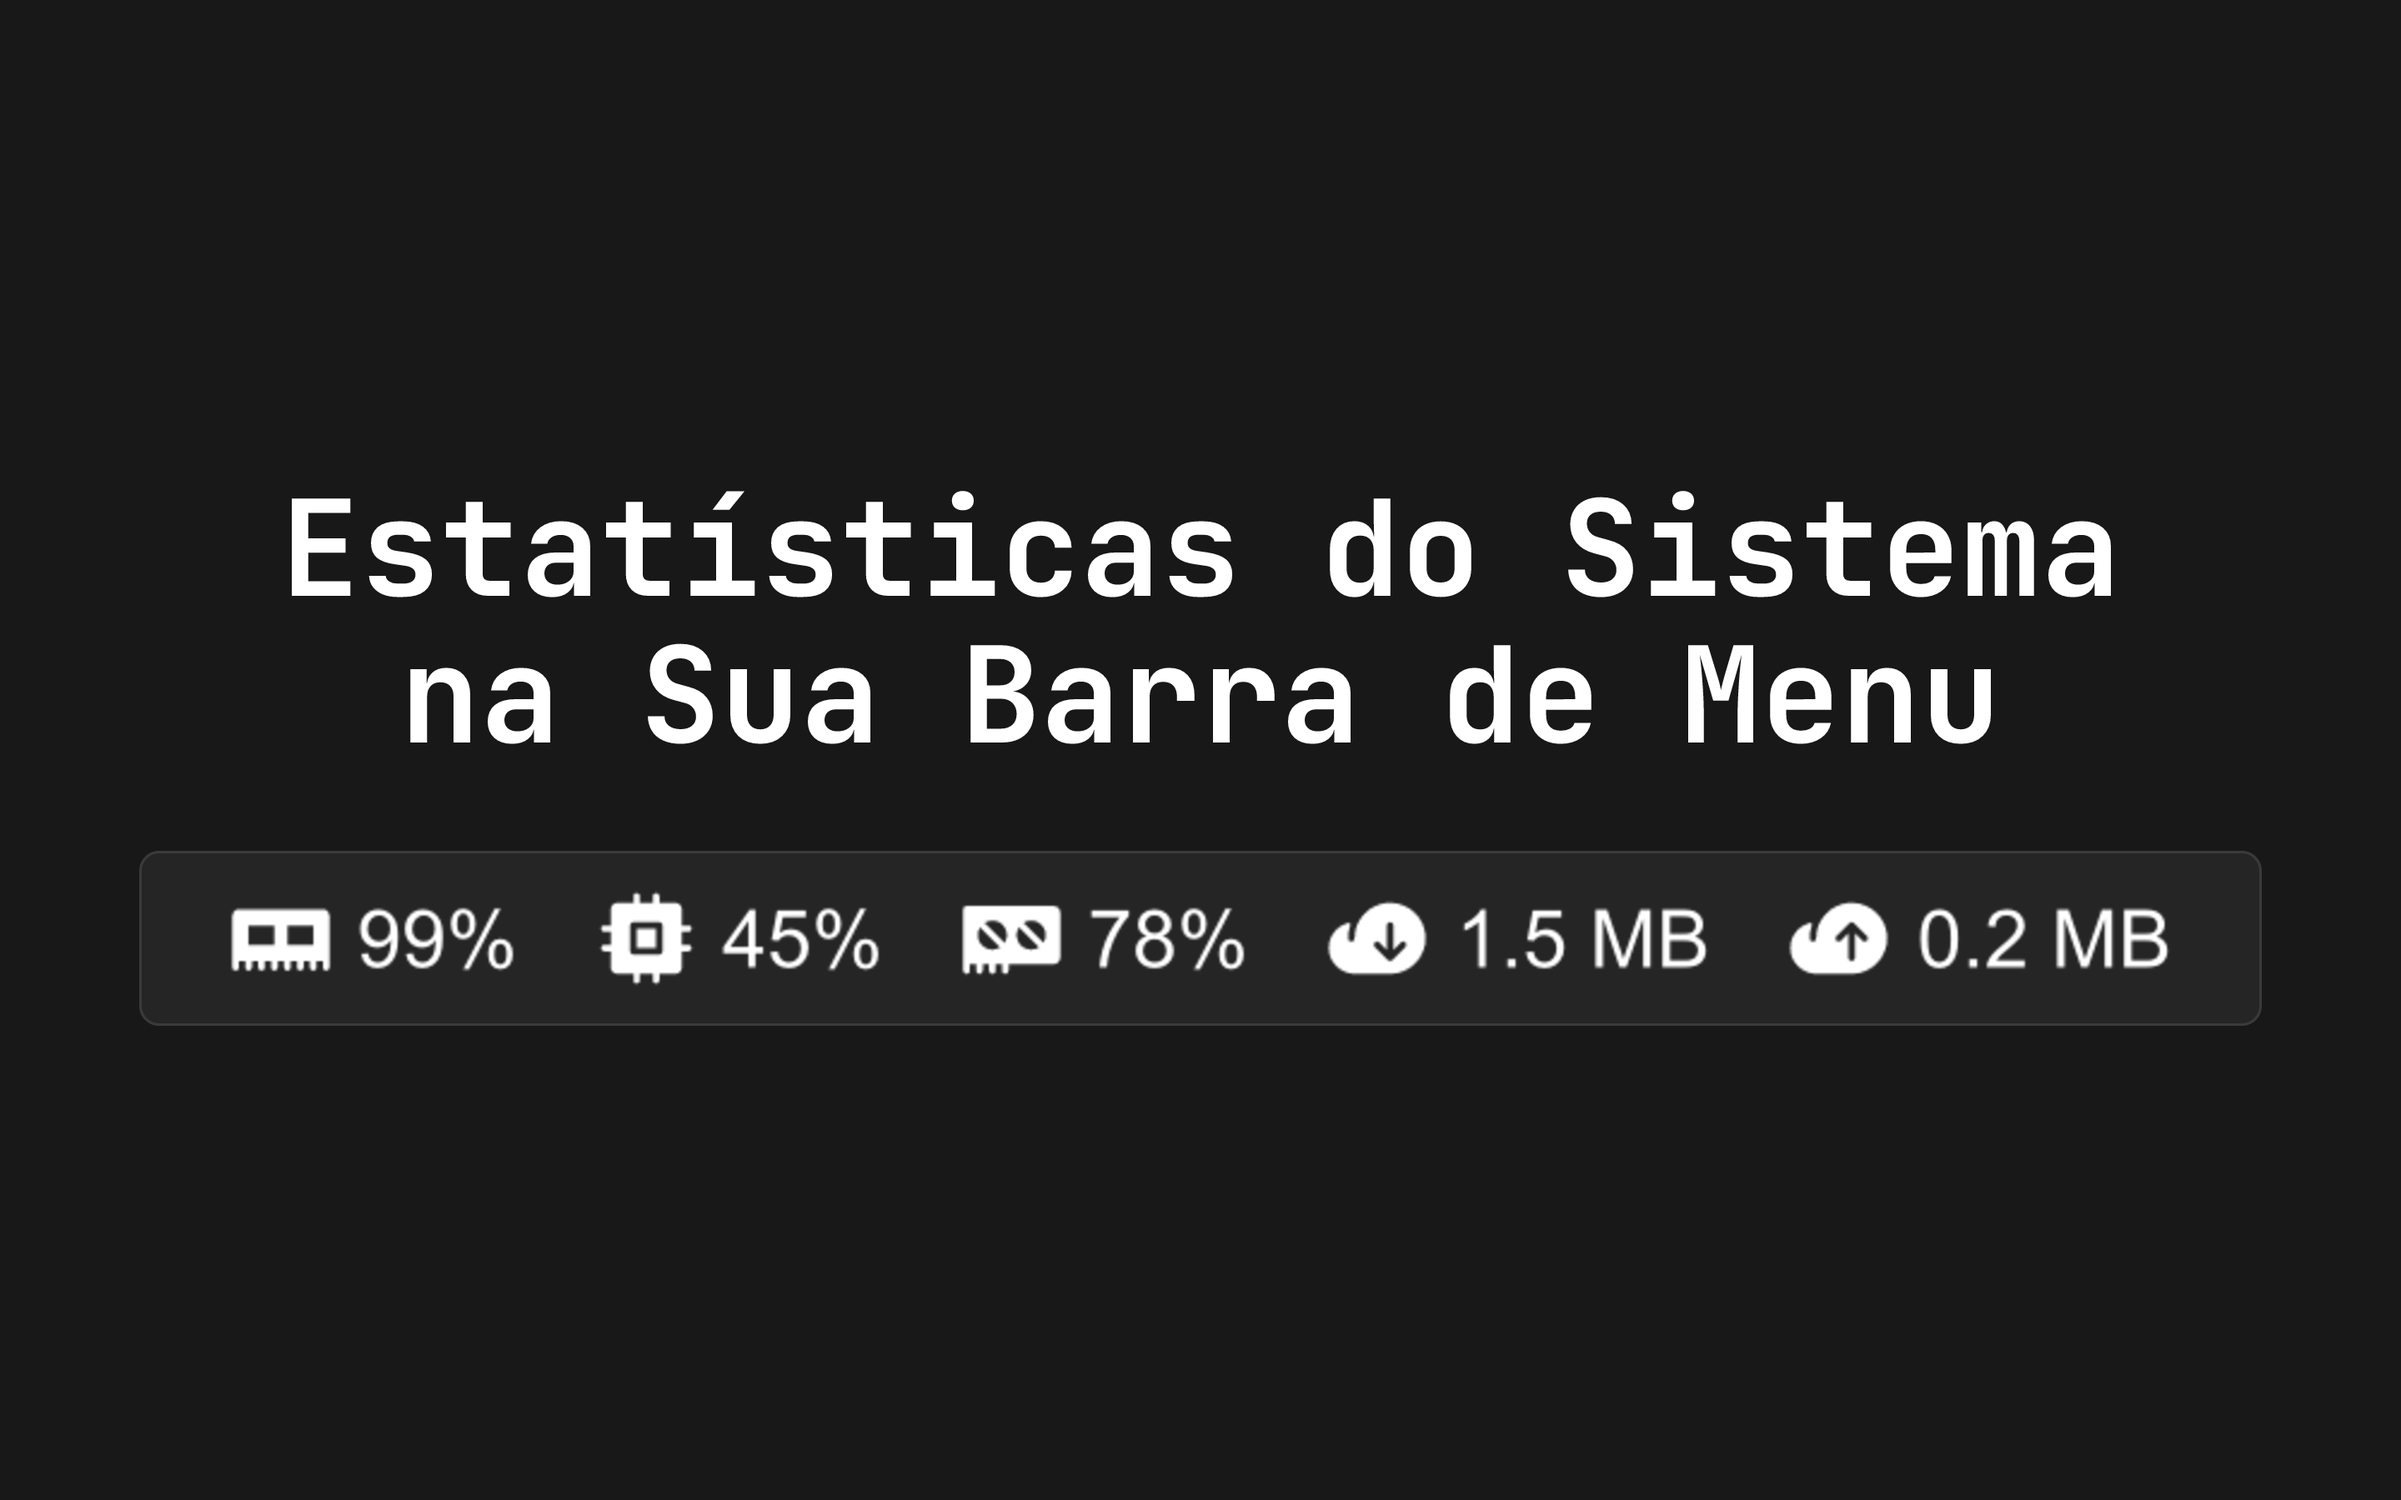
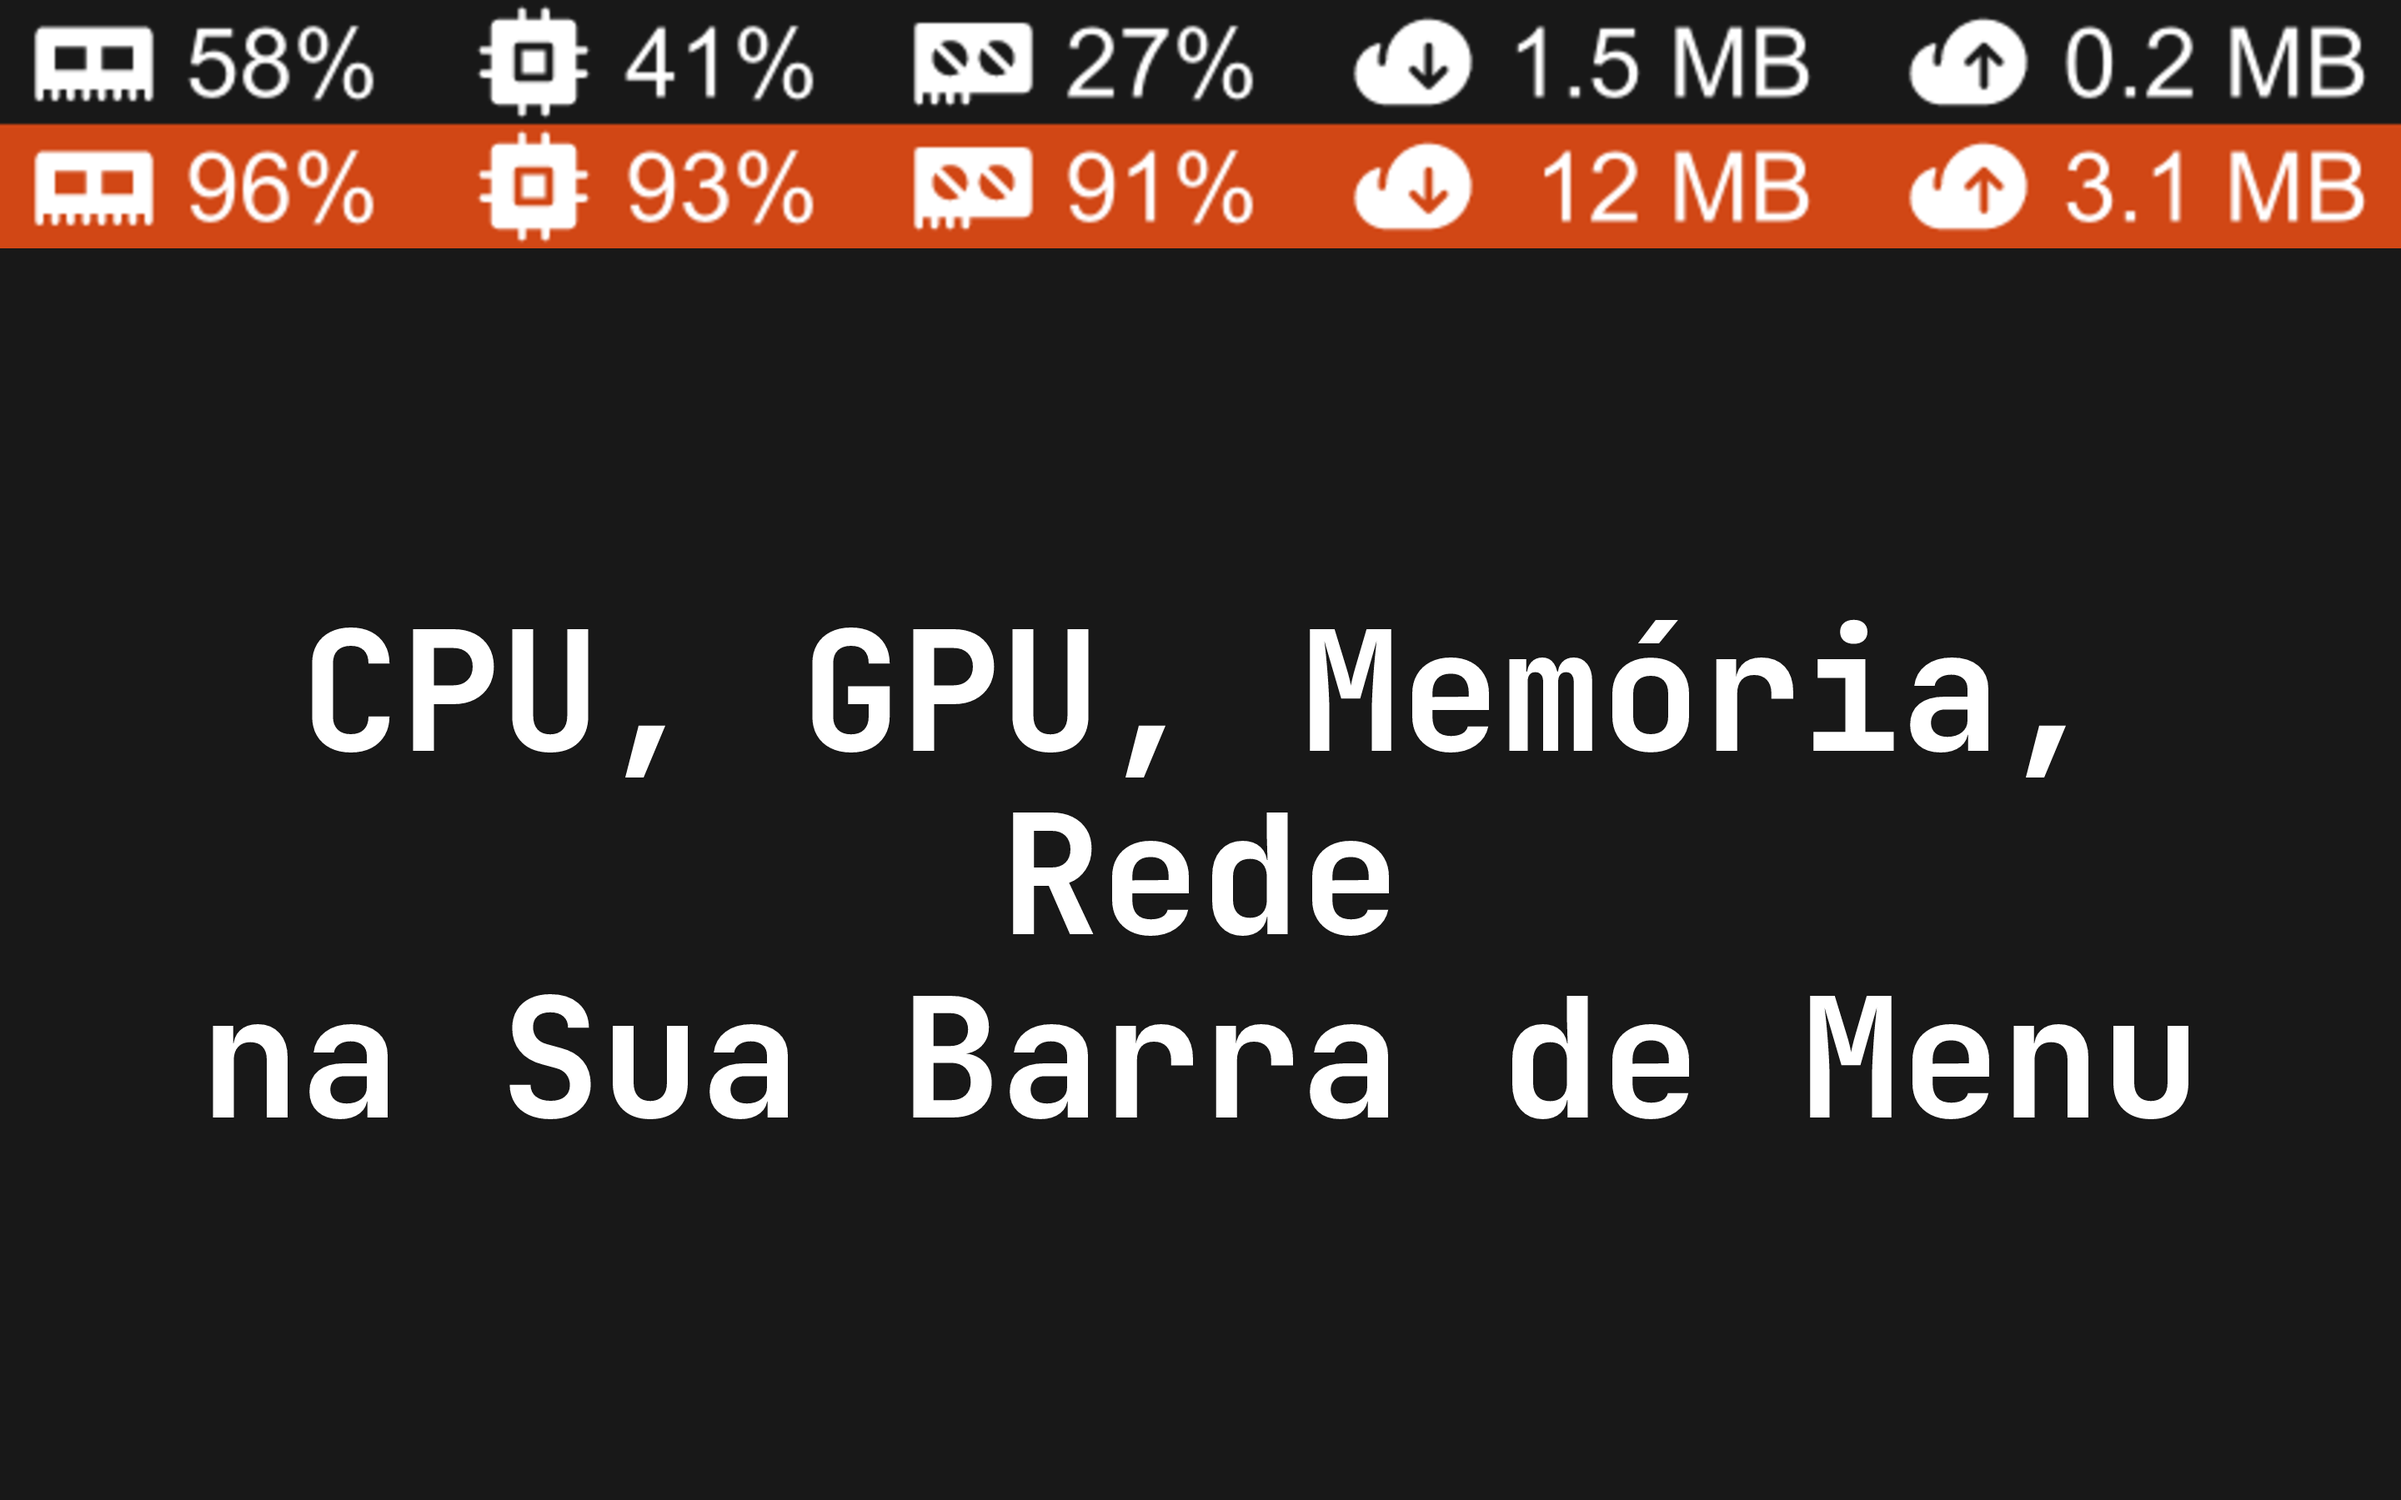
feat(marketing): refresh screenshot copy and social image titles

diff --git a/www/src/pages/images/[id].png.ts b/www/src/pages/images/[id].png.ts
@@ -21,7 +21,7 @@ const appStoreEntries = supportedLangs.flatMap((lang) =>
 
 // OG images: 7 pages x 4 locales = 28 entries (1200x630)
 const ogPages = [
-  { key: "index", title: (l: SiteMarketingLocale) => appStoreScreenshots[screenshotLangByLocale[l]].simplicity },
+  { key: "index", title: (l: SiteMarketingLocale) => ogTitles[l].index },
   { key: "faq", title: (l: SiteMarketingLocale) => ogTitles[l].faq },
   { key: "privacy", title: (l: SiteMarketingLocale) => ogTitles[l].privacy },
   { key: "terms", title: (l: SiteMarketingLocale) => ogTitles[l].terms },
@@ -83,32 +83,73 @@ export const GET: APIRoute = async ({ props }) => {
         children: "Better Resource Monitor",
       },
     });
-  }
 
-  children.push({
-    type: "div",
-    props: {
-      style: {
-        fontSize: st(160),
-        fontWeight: 700,
-        color: colors.text,
-        textAlign: "center",
-        whiteSpace: "pre-line",
-        lineHeight: 1.1,
-        marginBottom: st(100),
+    children.push({
+      type: "div",
+      props: {
+        style: {
+          fontSize: st(160),
+          fontWeight: 700,
+          color: colors.text,
+          textAlign: "center",
+          whiteSpace: "pre-line",
+          lineHeight: 1.1,
+          marginBottom: st(100),
+        },
+        children: title,
       },
-      children: title,
-    },
-  });
+    });
 
-  children.push({
-    type: "img",
-    props: {
-      src: trayIcon,
-      width: showAppName ? "100%" : s(2400),
-      ...(showAppName ? {} : { height: s(124) }),
-    },
-  });
+    children.push({
+      type: "img",
+      props: {
+        src: trayIcon,
+        style: {
+          width: "100%",
+        },
+      },
+    });
+  } else {
+    children.push({
+      type: "img",
+      props: {
+        src: trayIcon,
+        style: {
+          width: "100%",
+          objectFit: "cover",
+        },
+      },
+    });
+
+    children.push({
+      type: "div",
+      props: {
+        style: {
+          flex: 1,
+          display: "flex",
+          flexDirection: "column",
+          justifyContent: "center",
+          alignItems: "center",
+          width: "100%",
+          padding: `0 ${s(140)}px`,
+        },
+        children: {
+          type: "div",
+          props: {
+            style: {
+              fontSize: st(200),
+              fontWeight: 700,
+              color: colors.text,
+              textAlign: "center",
+              whiteSpace: "pre-line",
+              lineHeight: 1.1,
+            },
+            children: title,
+          },
+        },
+      },
+    });
+  }
 
   const element = {
     type: "div",
@@ -119,10 +160,10 @@ export const GET: APIRoute = async ({ props }) => {
         display: "flex",
         flexDirection: "column",
         alignItems: "center",
-        justifyContent: "center",
+        justifyContent: showAppName ? "center" : "flex-start",
         backgroundColor: colors.bg,
         fontFamily: "JetBrains Mono",
-        padding: `0 ${s(140)}px`,
+        padding: showAppName ? `0 ${s(140)}px` : "0",
       },
       children,
     },
